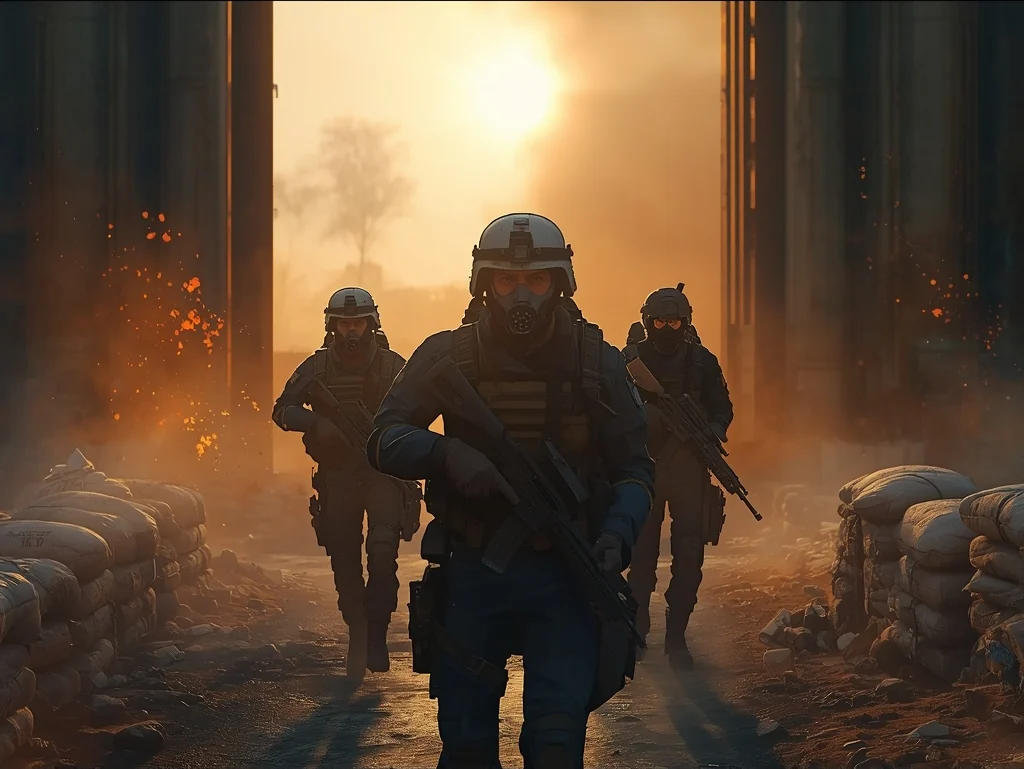
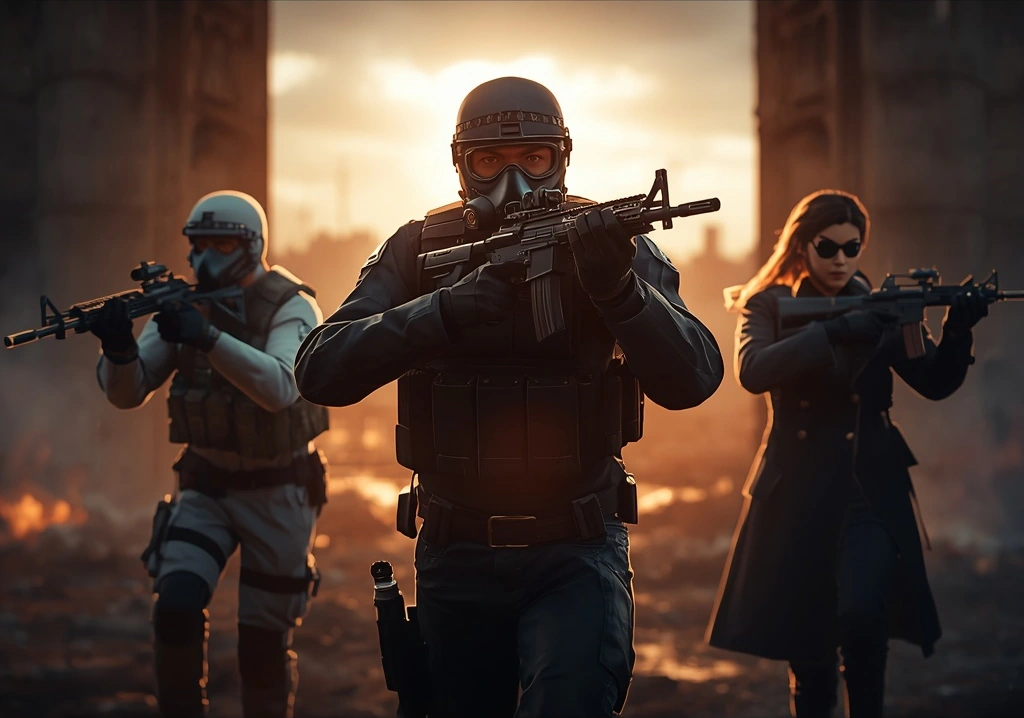
fix(landing): correct swapped class portraits, new hero key art
Sentinel and Phantom card art had been swapped in the last art pass.
Also swaps in the new squad-breach hero photo and drops the lightning-
flash overlay, which stacked on the new photo's own sunburst and read
as a rendering glitch.

diff --git a/apps/web/src/components/landing/LandingPage.tsx b/apps/web/src/components/landing/LandingPage.tsx
@@ -185,7 +185,9 @@ export default function LandingPage() {
 
         {/* Weather */}
         <div className="absolute inset-0 pointer-events-none" style={{ backgroundImage:'repeating-linear-gradient(168deg, transparent 0px, transparent 5px, rgba(160,200,255,0.04) 5px, rgba(160,200,255,0.04) 6px)', backgroundSize:'6px 80px', animation:'rain-fall 0.5s linear infinite' }} />
-        <div className="absolute inset-0 pointer-events-none" style={{ background:'radial-gradient(ellipse 45% 75% at 50% 28%, rgba(70,120,255,0.09), transparent 60%)', animation:'lightning-flash 8s ease-in-out infinite', animationDelay:'3.2s' }} />
+        {/* Lightning-flash overlay removed: the new hero photo has its own bright sunburst
+            at roughly this same screen position, so the periodic flash stacked on top of it
+            and read as a rendering glitch rather than weather. */}
 
         {/* Embers */}
         {embers.map(e => (
